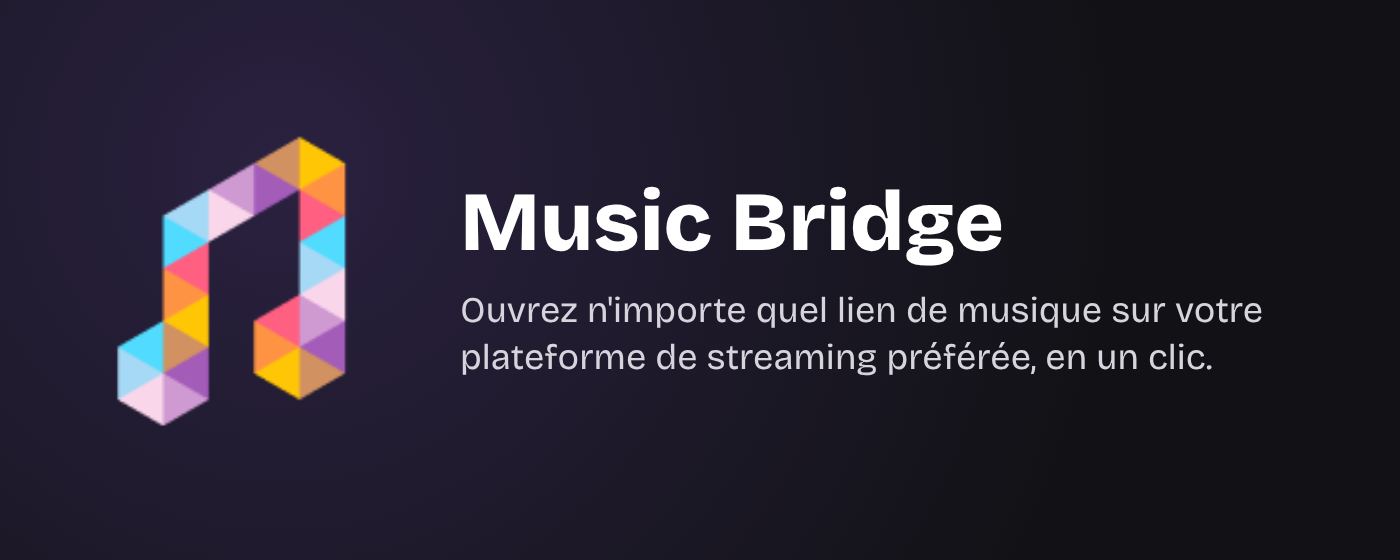
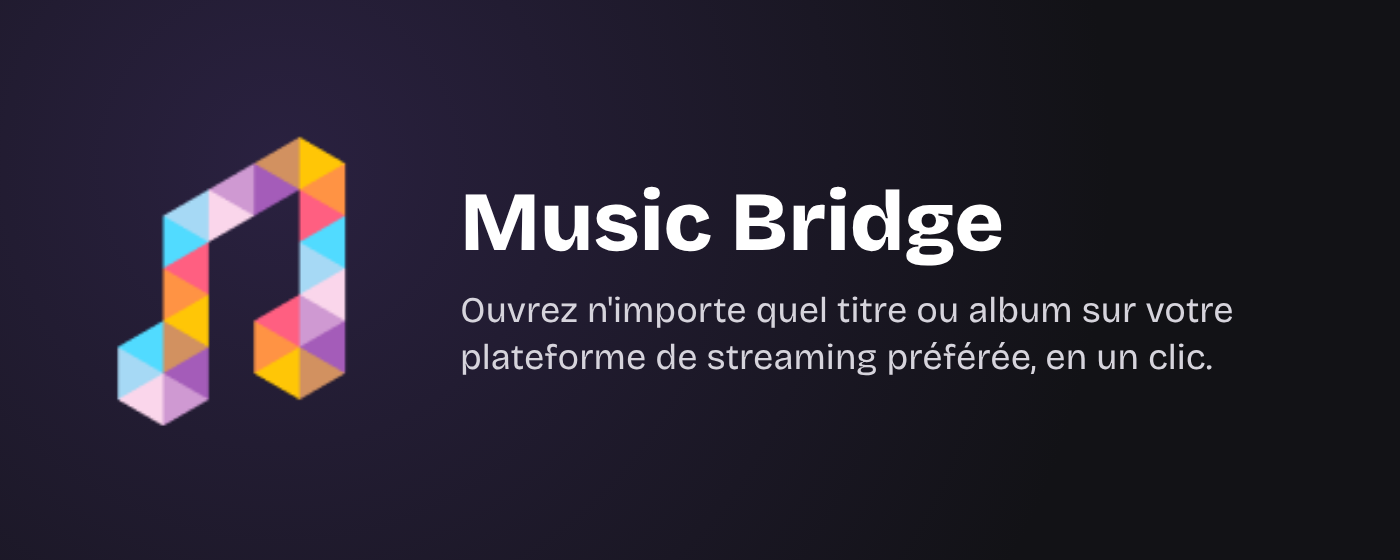
docs(music-bridge): « titre ou album » rather than « lien de musique » in French

Changed region(s): [[0.5836, 0.5161, 0.9214, 0.5768]]

diff --git a/extensions/music-bridge/store/README.md b/extensions/music-bridge/store/README.md
@@ -24,7 +24,7 @@ Entertainment (Divertissement)
 The manifest takes them from [`public/_locales`](../public/_locales).
 
 - **EN**: Music Bridge. Open any music link on your favorite streaming platform, in one click.
-- **FR**: Music Bridge. Ouvrez n'importe quel lien de musique sur votre plateforme de streaming préférée, en un clic.
+- **FR**: Music Bridge. Ouvrez n'importe quel titre ou album sur votre plateforme de streaming préférée, en un clic.
 
 ## Description
 
@@ -54,7 +54,7 @@ Choisissez votre plateforme une fois dans les options de l'extension. Ensuite, c
 - Ouvrez la musique dans l'application de bureau de votre plateforme (Apple Music, Deezer, Spotify), et fermez l'onglet resté ouvert si vous le souhaitez.
 - Disponible en anglais et en français.
 
-Confidentialité : l'adresse de la page de musique que vous ouvrez est envoyée au service de redirection de Music Bridge, qui trouve la même musique avec l'API Odesli (song.link). Rien d'autre n'est collecté, et vos réglages restent dans votre navigateur.
+Confidentialité : l'adresse de la page du titre ou de l'album que vous ouvrez est envoyée au service de redirection de Music Bridge, qui trouve la même musique avec l'API Odesli (song.link). Rien d'autre n'est collecté, et vos réglages restent dans votre navigateur.
 
 **Chrome Web Store** : la fiche ne peut pas citer plus de 5 autres marques, remplacer le premier point de la liste par :
 
@@ -77,7 +77,7 @@ Confidentialité : l'adresse de la page de musique que vous ouvrez est envoyée 
 
 ### Français
 
-> Aucun compte ni identifiant nécessaire. Choisissez une plateforme de streaming dans les options de l'extension (Deezer, par exemple). Ouvrez ensuite un lien de musique d'une autre plateforme, par exemple https://open.spotify.com/track/4uLU6hMCjMI75M1A2tKUQC : l'extension redirige vers le même titre sur la plateforme choisie, via le service music-bridge-redirect (API Odesli). « Ouvrir dans l'application » nécessite l'application de bureau de cette plateforme.
+> Aucun compte ni identifiant nécessaire. Choisissez une plateforme de streaming dans les options de l'extension (Deezer, par exemple). Ouvrez ensuite le lien d'un titre d'une autre plateforme, par exemple https://open.spotify.com/track/4uLU6hMCjMI75M1A2tKUQC : l'extension redirige vers le même titre sur la plateforme choisie, via le service music-bridge-redirect (API Odesli). « Ouvrir dans l'application » nécessite l'application de bureau de cette plateforme.
 
 ## Permissions (Chrome Web Store privacy practices)
 
@@ -101,4 +101,4 @@ The link of the music page is sent to the redirect service (https://music-bridge
 
 ### Français
 
-Le lien de la page de musique est envoyé au service de redirection (https://music-bridge-redirect.smndhm.workers.dev/), qui le recherche avec l'API Odesli. Rien d'autre n'est collecté ; les réglages restent dans le navigateur. Firefox : `data_collection_permissions: browsingActivity`.
+L'adresse de la page du titre ou de l'album est envoyée au service de redirection (https://music-bridge-redirect.smndhm.workers.dev/), qui retrouve la musique avec l'API Odesli. Rien d'autre n'est collecté ; les réglages restent dans le navigateur. Firefox : `data_collection_permissions: browsingActivity`.
